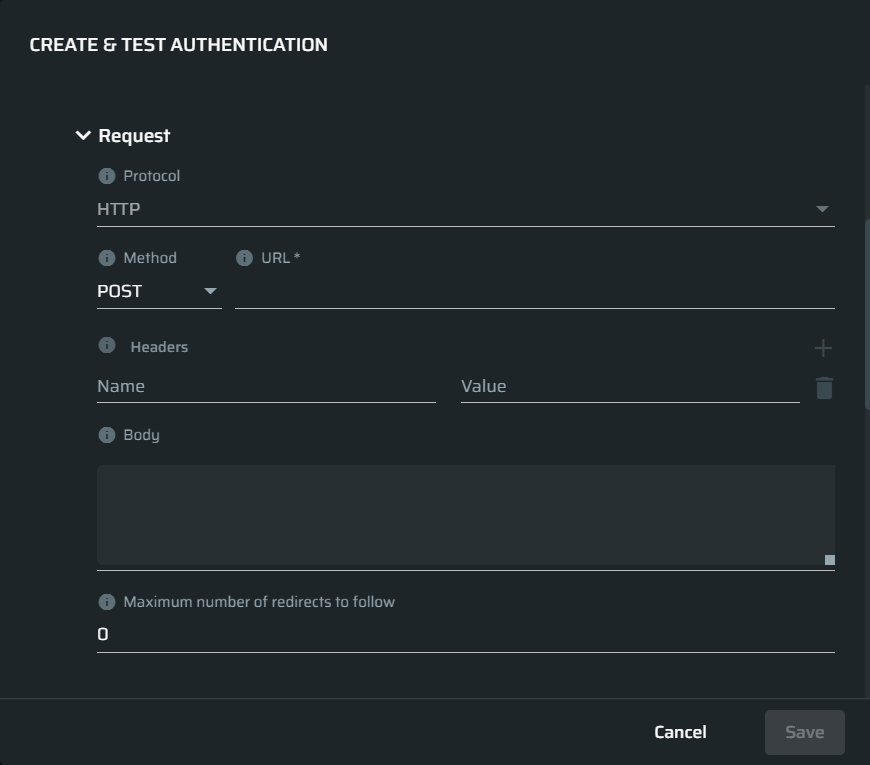
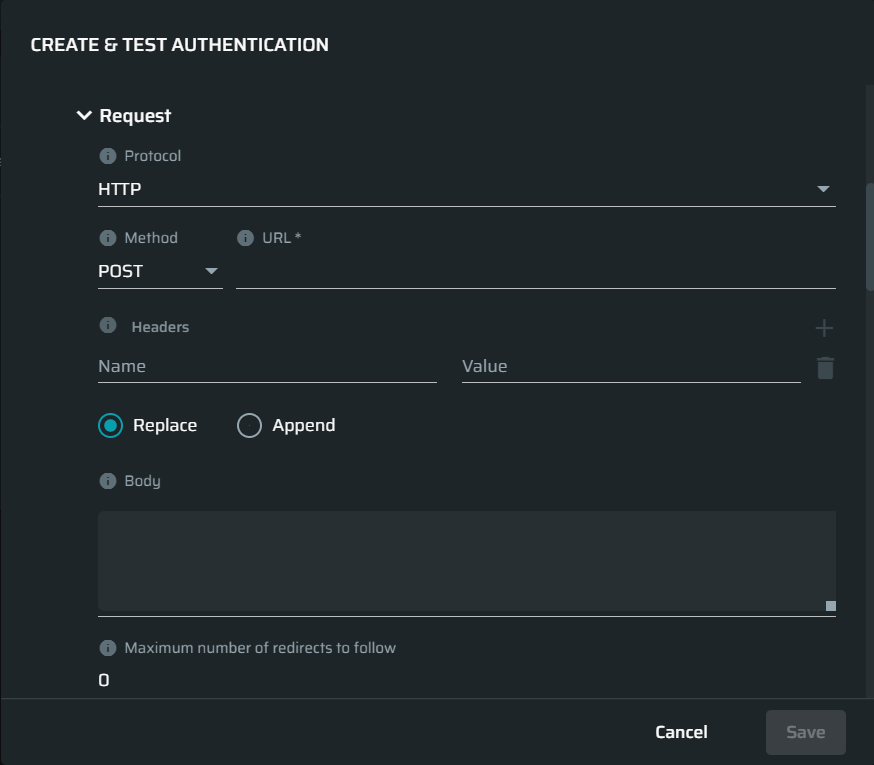
AO heders replace/append

diff --git a/docs/guide/np-web-ui/scanning/managing-authentications/types/form-authentication.md b/docs/guide/np-web-ui/scanning/managing-authentications/types/form-authentication.md
@@ -92,7 +92,7 @@ In this section, set up a valid authentication request to be sent to the end-poi
   <tr>
     <td width="25%"><b>Additional headers</b></td>
     <td width="75%" >
-        <em>(Optional)</em> Select an additional header and enter its value. Then select the relative button to replace or append it to each request. For example, additional cookies that might be needed for the authentication such as host-related metadata.<br><br>
+        <em>(Optional)</em> Select an additional header you need to use for each request and enter its value.  For example, additional cookies that might be needed for the authentication such as host-related metadata.<br> To replace or append the selected header to each request, select the relative button below.<br><br>
         <font color="green"><b>Pro Tips:</b></font>
         <ul>
             <li>

diff --git a/docs/guide/np-web-ui/scanning/managing-authentications/types/custom-auth.md b/docs/guide/np-web-ui/scanning/managing-authentications/types/custom-auth.md
@@ -90,7 +90,7 @@ In this section, set up a valid authentication request to be sent to the end-poi
   <tr>
     <td width="25%"><b>Headers</b></td>
     <td width="75%" >       
-    Enter an additional header that you want to add to each request and specify its value. You can interpolate the header name and value using the <a href="/#/guide/np-web-ui/scanning/managing-authentications/syntax.md">String Interpolation Syntax</a>. <br><br> 
+    Enter an additional header that you need to use for each request and specify its value. You can interpolate the header name and value using the <a href="/#/guide/np-web-ui/scanning/managing-authentications/syntax.md">String Interpolation Syntax</a>. <br> To replace or append the specified heater to each rrequest, selec the relative button below. <br><br> 
     </td>
   </tr>
   <tr>

diff --git a/docs/guide/np-web-ui/scanning/managing-authentications/types/api-call.md b/docs/guide/np-web-ui/scanning/managing-authentications/types/api-call.md
@@ -173,7 +173,7 @@ In this section, set up a valid authentication request to be sent to the end-poi
    <tr>
     <td width="25%"><b>Additional headers</b></td>
     <td width="75%" >
-        <em>(Optional)</em> Select an additional header that you want to add to each request and enter its value. For example, additional cookies that might be needed for the authentication such as host-related metadata.<br><br>
+        <em>(Optional)</em> Select an additional header that you need to use for each request and enter its value. For example, additional cookies that might be needed for the authentication such as host-related metadata.<br>To replace or append the selected headure to each request, select the relative button below.<br><br>
          <font color="green"><b>Pro Tips:</b></font>
         <ul>
             <li>

diff --git a/docs/guide/np-web-ui/scanning/managing-authentications/types/header-authentication.md b/docs/guide/np-web-ui/scanning/managing-authentications/types/header-authentication.md
@@ -65,7 +65,7 @@ In this section, set up a valid authentication request to be sent to the end-poi
   <tr>
     <td width="25%"><b>Name</b></td>
     <td width="75%" >
-    Select the header you want to add to each request, for example authentication cookies.
+    Select the header you need to use for each request and enter its value, for example authentication cookies. <br>To replace or append the selected header to each request, select the relative button below.
     </td>
   </tr>
   <tr>
